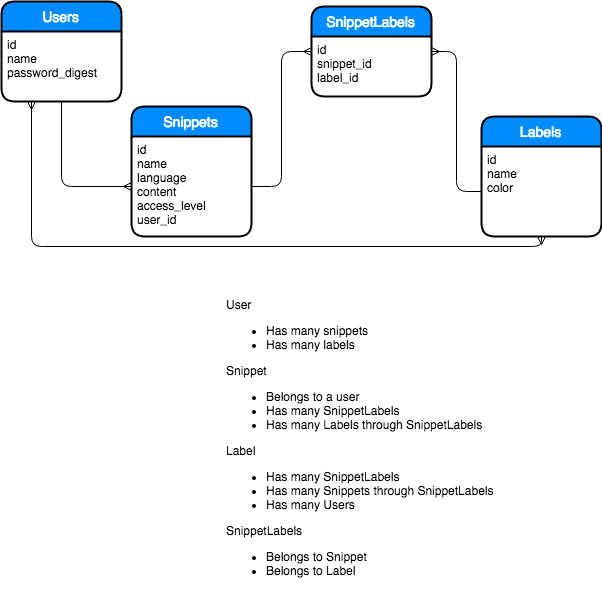
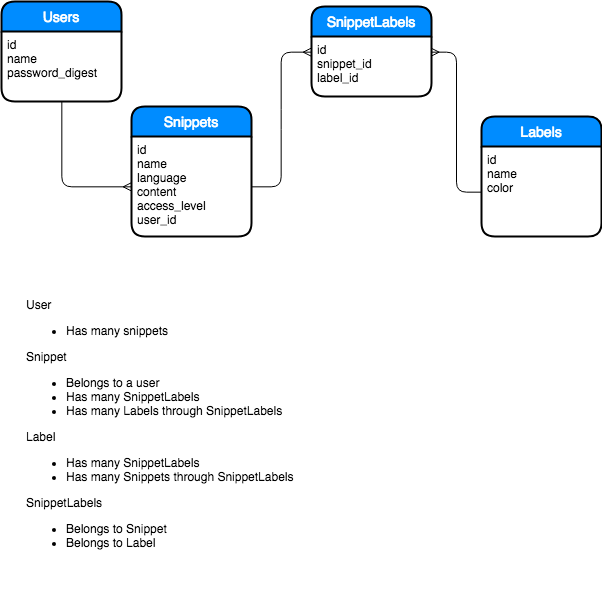
add notes.md, write test for labels to ensure private snippets are not shown on llabels page, pass this test.

diff --git a/spec/controllers/labels_controller_spec.rb b/spec/controllers/labels_controller_spec.rb
@@ -45,9 +45,7 @@ describe LabelsController do
         expect(page.body).not_to include("personal")
         expect(page.body).not_to include("for-fun")
       end
-
     end
-
   end
 
   # describe 'new action' do
@@ -155,9 +153,26 @@ describe LabelsController do
 
         visit "/labels/#{Label.last.id}"
         expect(page.status_code).to eq(200)
-        # expect(page.body).to include("Delete Tweet")
         expect(page.body).to include(snippet2.name)
-        # expect(page.body).to include("Edit Tweet")
+      end
+
+      it 'does not show private snippets on snippet library label show page' do
+        user = User.create(:username => "becky567", :email => "starz@aol.com", :password => "kittens")
+        snippet = Snippet.create(:name => "Print all the snippet names", :content => "snippets.each {|snippet| puts snippet.name}", :language => "Ruby", :access_level => "Public", :user_id => user.id)
+        label = snippet.labels.create(:name => "work-stuff", :color => "blue")
+
+        user2 = User.create(:username => "andrew", :email => "andrew@aol.com", :password => "allyson")
+        snippet2 = Snippet.create(:name => "Andrew's snippet", :content => "some python code", :language => "Pyhton", :access_level => "Private", :user_id => user2.id)
+        snippet2.labels << label
+
+        visit '/login'
+
+        fill_in(:username, :with => "becky567")
+        fill_in(:password, :with => "kittens")
+        click_button 'submit'
+        visit "/labels/1"
+        expect(page.status_code).to eq(200)
+        expect(page.body).not_to include("Andrew's snippet")
       end
     end
 

diff --git a/app/controllers/labels_controller.rb b/app/controllers/labels_controller.rb
@@ -7,7 +7,7 @@ class LabelsController < ApplicationController
 
         # Data for labels navigator
         @snippets = Snippet.all.where("access_level = 'Public'")
-        @label_ids = @snippets.collect {|snippet| snippet.label_ids}.uniq.flatten
+        @label_ids = @snippets.collect {|snippet| snippet.label_ids}.flatten.uniq
         @labels = Label.find(@label_ids)  # get only labels for public snippets
         @user = false
 
@@ -30,7 +30,7 @@ class LabelsController < ApplicationController
         # Data for labels navigator
         @snippets = current_user.snippets
         @label_ids = @snippets.collect {|snippet| snippet.label_ids}.uniq.flatten
-        @labels = Label.find(@label_ids) # get all labels for this uer's snippets
+        @labels = Label.find(@label_ids) # get all labels for this user's snippets
         @user = true
 
         erb :labels_layout, :layout => :layout do

diff --git a/app/controllers/snippets_controller.rb b/app/controllers/snippets_controller.rb
@@ -39,7 +39,6 @@ class SnippetsController < ApplicationController
       if params[:labels]
         params[:labels].each do |label|
           label = Label.find_or_create_by(name: label)
-          current_user.labels << label
           new_snippet.labels << label
         end
       end

diff --git a/app/models/label.rb b/app/models/label.rb
@@ -1,7 +1,6 @@
 class Label < ActiveRecord::Base
   has_many :snippet_labels
   has_many :snippets, through: :snippet_labels
-  belongs_to :user
 
-  validates_presence_of :name, :color
+  validates_presence_of :name
 end

diff --git a/app/models/user.rb b/app/models/user.rb
@@ -1,6 +1,6 @@
 class User < ActiveRecord::Base
   has_many :snippets
-  has_many :labels
+
   has_secure_password
   validates_presence_of :username, :email, :password_digest
 

diff --git a/notes.md b/notes.md
@@ -1,0 +1,3 @@
+- Probably should change relationship between users and labels...
+- A user should have many labels
+- A label should have many users ...
